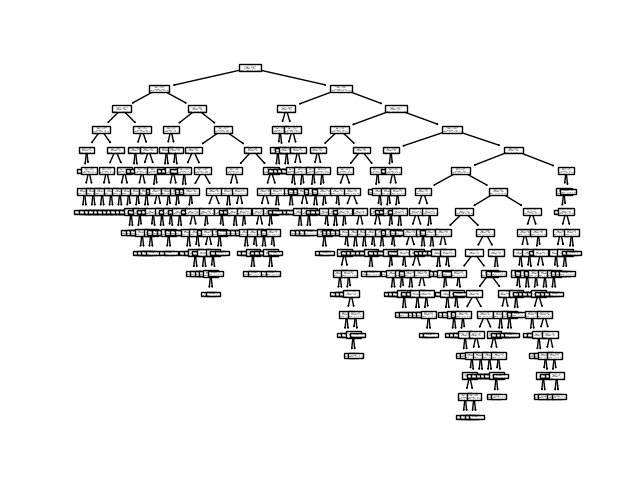
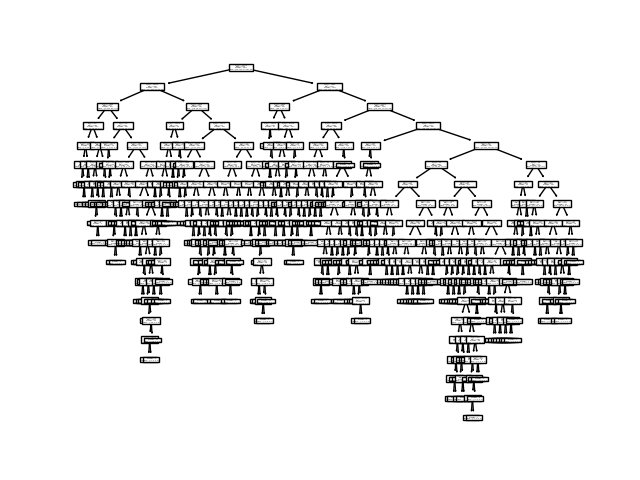
Cleaning up python script and outputting false positive rate

Changed region(s): [[0.0938, 0.125, 0.9375, 0.9062]]

diff --git a/proof_of_concept/decision_tree.py b/proof_of_concept/decision_tree.py
@@ -1,11 +1,28 @@
 import pandas as pd
+from matplotlib import pyplot as plt
+from sklearn import tree
 from sklearn.ensemble import RandomForestClassifier
 from sklearn.model_selection import train_test_split
 
-# from sklearn import tree
-# from matplotlib import pyplot as plt
 
-# Import all the training and validation data
+def evaluate_predicted(predicted, y_test):
+    true_positive = [0, 0, 0, 0, 0, 0, 0, 0, 0, 0]
+    false_positive = [0, 0, 0, 0, 0, 0, 0, 0, 0, 0]
+    for i in range(len(y_test)):
+        if predicted[i] == y_test[i]:
+            true_positive[predicted[i]] += 1
+        else:
+            false_positive[predicted[i]] += 1
+
+    total_gestures = len(y_test)
+    for gesture_type in [1, 2, 3, 4, 9]:
+        amount_of_gesture = y_test.tolist().count(gesture_type)
+        print("GestureType: " + str(gesture_type))
+        print("True Positive: %.3f" % (100 * (true_positive[gesture_type] / amount_of_gesture)))
+        print("False Positive: %.3f" % (100 * (false_positive[gesture_type] / total_gestures)))
+
+
+# Import all the data
 # Generated from the extractor
 storage_path = "../prepare_data/gesture_extractor/model_data"
 result = pd.read_csv(storage_path + "/result", dtype=int).values.flatten()
@@ -40,19 +57,31 @@ X = pd.concat([lsos_x, lsos_y, darkness_dist_6xy_geom, brightness_dist_6xy_geom,
 y = result
 X_train, X_test, y_train, y_test = train_test_split(X, y, test_size=0.3, random_state=0)
 
+
 # Create the decision tree and train it
-# clf = tree.DecisionTreeClassifier()
-clf = RandomForestClassifier(criterion='entropy', n_estimators=64, random_state=1, n_jobs=16)
-clf = clf.fit(X_train, y_train)
+def decision_tree(X_train, y_train, X_test, y_test):
+    clf = tree.DecisionTreeClassifier()
+    clf = clf.fit(X_train, y_train)
 
-# plt.figure()
-# tree.plot_tree(clf)
-# plt.savefig('tree.png', format='png')
+    plt.figure()
+    tree.plot_tree(clf)
+    plt.savefig('tree.png', format='png')
 
-# Testing the validation set for accuracy
-predicted = clf.predict(X_test)
-correct = 0
-for i in range(len(y_test)):
-    if predicted[i] == y_test[i]:
-        correct = correct + 1
-print(100 * (correct / len(y_test)))
+    predicted = clf.predict(X_test)
+
+    print("Evaluating DecisionTreeClassifier:")
+    evaluate_predicted(predicted, y_test)
+
+
+def random_forest(X_train, y_train, X_test, y_test):
+    clf = RandomForestClassifier(criterion='entropy', n_estimators=64, random_state=1, n_jobs=16)
+    clf = clf.fit(X_train, y_train)
+
+    predicted = clf.predict(X_test)
+
+    print("Evaluating RandomForestClassifier:")
+    evaluate_predicted(predicted, y_test)
+
+
+decision_tree(X_train, y_train, X_test, y_test)
+random_forest(X_train, y_train, X_test, y_test)
